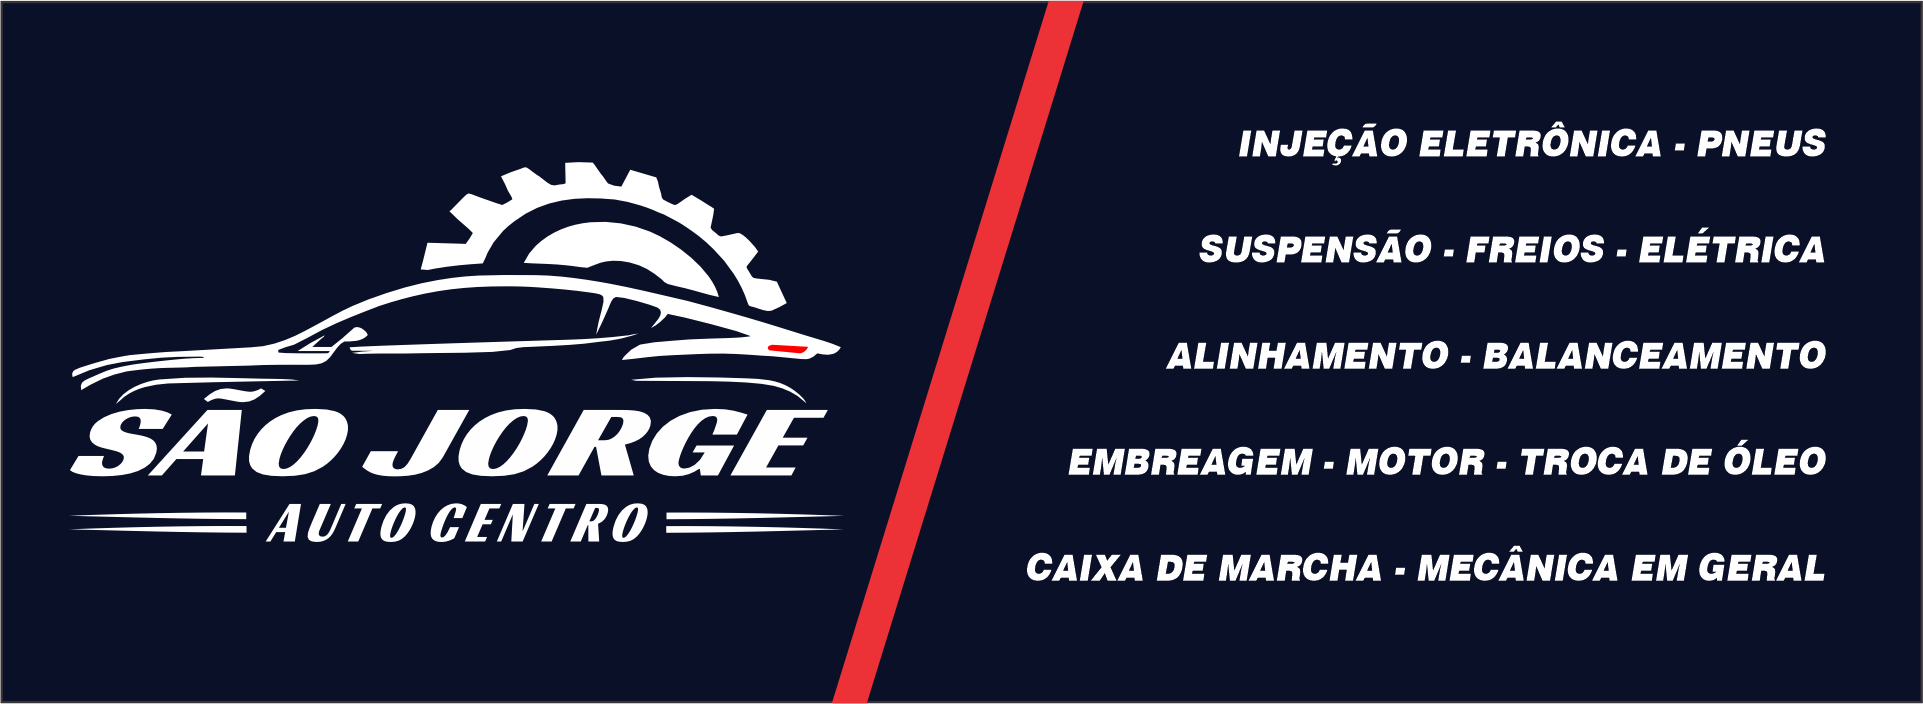
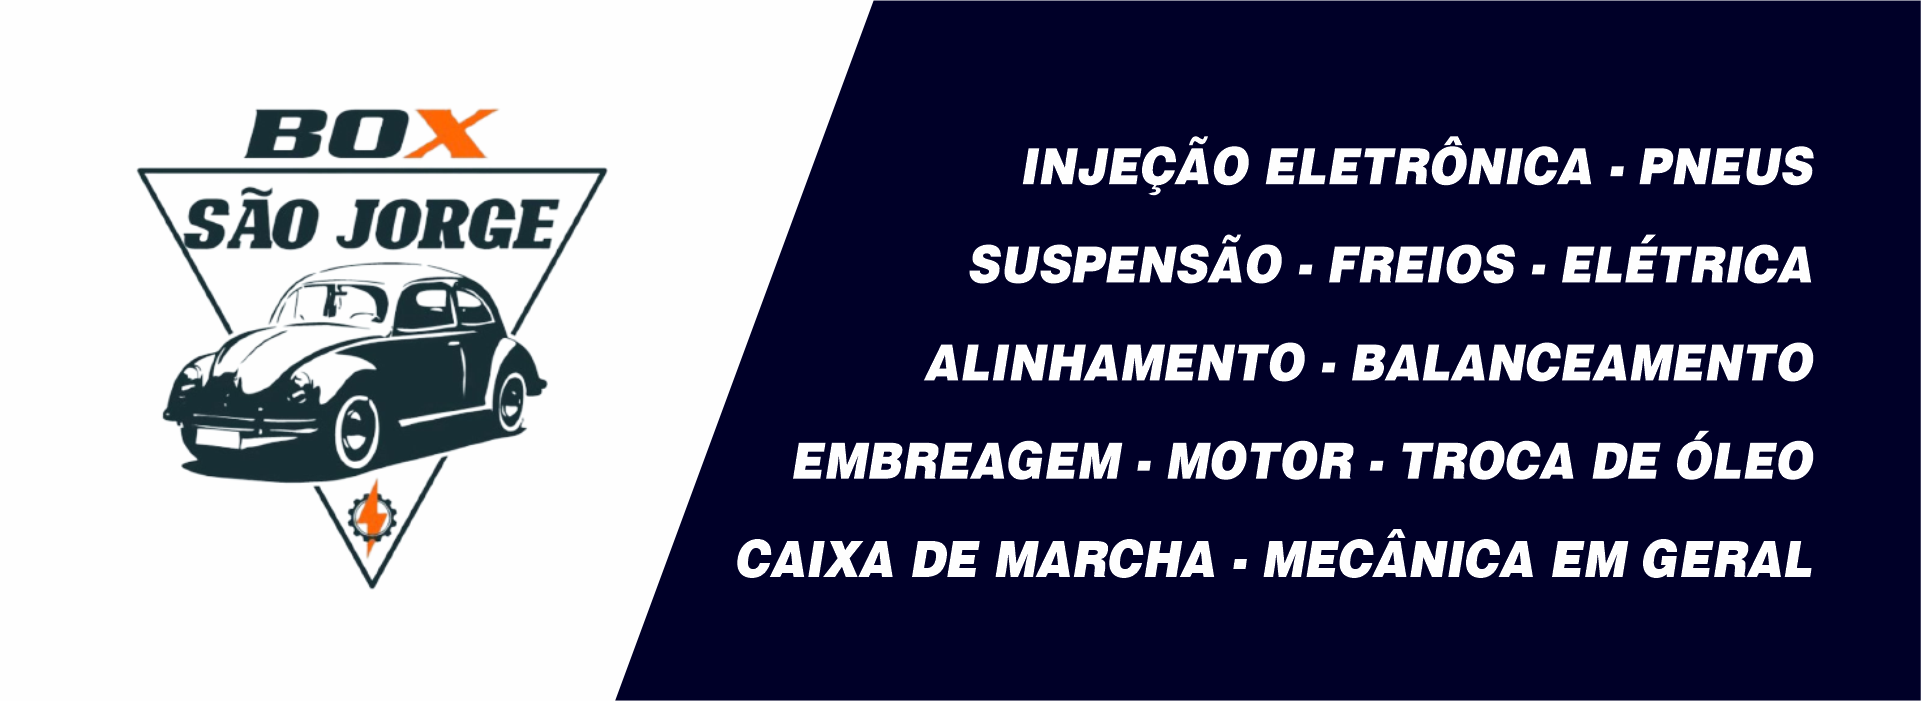
novas fotos e logomarca

diff --git a/index.html b/index.html
@@ -45,10 +45,10 @@
                 <img src="img/foto2.png" style="width: 1920px; max-height: 700px;" class="w-100 d-block" alt="First slide">
             </div>
             <div class="carousel-item">
-                <img src="img/foto1.png" style="width: 1920px; max-height: 500px;"class="w-100 d-block" alt="Second slide">
+                <img src="img/foto1.png" style="width: 1920px; max-height: 700px;"class="w-100 d-block" alt="Second slide">
             </div>
             <div class="carousel-item">
-                <img src="img/foto3.png" style="width: 1920px; max-height: 500px;"class="w-100 d-block" alt="Third slide">
+                <img src="img/foto3.png" style="width: 1920px; max-height: 700px;"class="w-100 d-block" alt="Third slide">
             </div>
         </div>
         <button class="carousel-control-prev" type="button" data-bs-target="#carouselId" data-bs-slide="prev">
